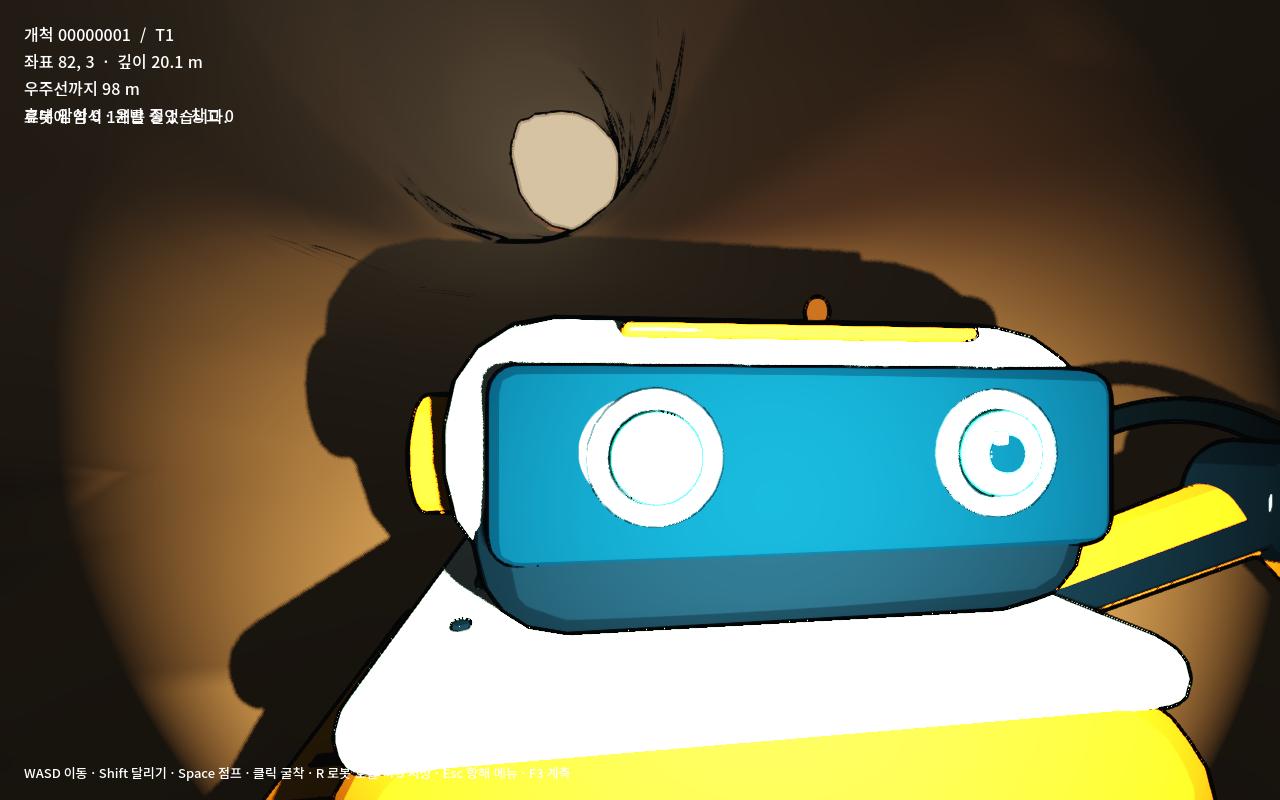
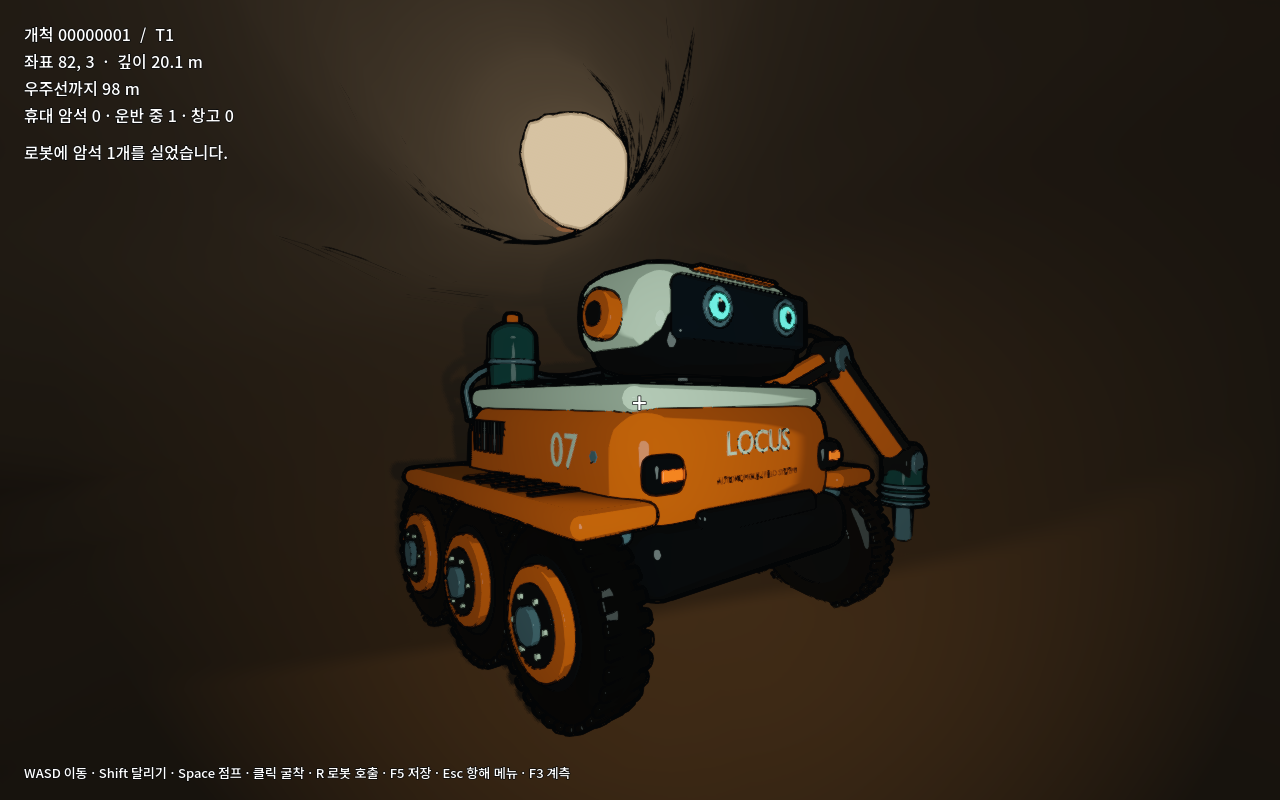
fix: preserve courier paint exposure and safe pickup clearance

diff --git a/docs/production/09-courier-and-surface-logistics.md b/docs/production/09-courier-and-surface-logistics.md
@@ -6,7 +6,7 @@
 
 승인 기준작 M–07의 원본을 보존하고 [새 Blender 원본](../../art/blender/robots/locus_courier.blend)에서 여섯 바퀴의 회전 중심을 분리했다. 외형을 새로 승인받은 모델로 표현하지 않는다. 원본 부품은 편집 가능하며 내보내기에서 회전부별 재질을 병합한다. [출력 기록](../../art/blender/robots/locus_courier.json): 219,740삼각형, 39개 병합 표면, 독립 회전 중심 6개. 실제 이동 거리로 바퀴를 회전시킨다.
 
-[공통 INK 실제 스튜디오 촬영](media/ink-catalog/locus_courier.png)과 [지하 회수 화면](media/courier/pickup.png)을 확인했다. 공통 재질·윤곽 경로를 사용한다. 표시 모델과 단순 캡슐 충돌은 분리한다.
+[공통 INK 실제 스튜디오 촬영](media/ink-catalog/locus_courier.png)과 [지하 회수 화면](media/courier/pickup.png)을 확인했다. 공통 재질·윤곽 경로를 사용한다. 후속 보정으로 손전등이 근거리 충돌 거리에 맞춰 노출을 줄여 크림색 도장이 하얗게 날아가지 않도록 했다. HUD와 작업 메시지를 분리하고 로봇은 화물 전달 거리에서 정지하며 벽을 사이에 둔 적재를 거부한다. 이 보정 후 실제 왕복 검사 19개를 다시 통과했다. 표시 모델과 단순 캡슐 충돌은 분리한다.
 
 ## 현장 물류
 
